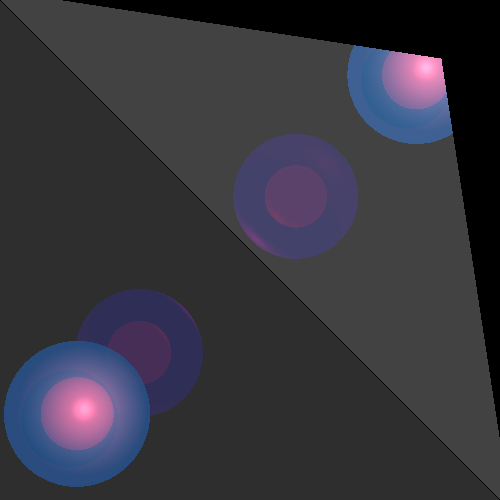
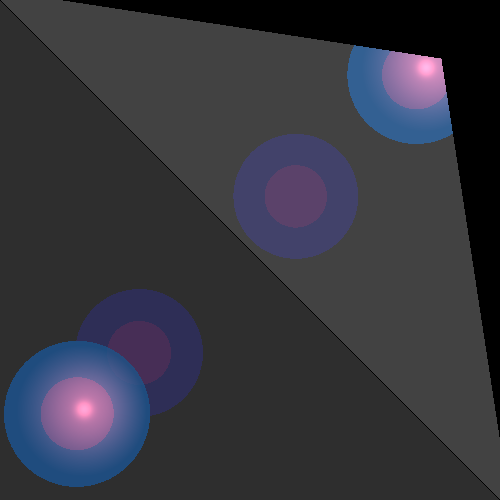
Add transparency calculation and improve local effects handling in ray tracing

diff --git a/src/renderer/SimpleRayTracer.java b/src/renderer/SimpleRayTracer.java
@@ -66,6 +66,32 @@ class SimpleRayTracer extends RayTracerBase {
     }
 
     /**
+     * Calculates the transparency factor (ktr) for the given intersection point, which represents how much light can pass through the geometries between the light source and the intersection point.
+     *
+     * @param intersection The intersection point for which to calculate the transparency factor.
+     * @return The transparency factor (ktr) for the given intersection point, which is a product of the transparency coefficients (kT) of all geometries that intersect with the shadow ray from the light source to the intersection point.
+     */
+    private Double3 transparency(Intersection intersection) {
+        Vector pointToLight = intersection.l.scale(-1);
+        Ray shadowRay = new Ray(intersection.point, pointToLight, intersection.normal);
+
+        var shadowIntersections = _scene.geometries.calcIntersections(shadowRay);
+        Double3 ktr = Double3.ONE;
+        if (shadowIntersections == null) return ktr;
+
+        double lightDistance = intersection.light.getDistance(intersection.point);
+        for (var shadowIntersection : shadowIntersections) {
+            if (alignZero(intersection.point.distance(shadowIntersection.point) - lightDistance) < 0 ) {
+                ktr = ktr.product(shadowIntersection.material.kT);
+                if (ktr.isLowerThan(MIN_CALC_COLOR_K)) {
+                    return Double3.ZERO;
+                }
+            }
+        }
+        return ktr;
+    }
+
+    /**
      * Calculates the color at the given intersection point.
      *
      * @param intersection The point of intersection for which to calculate the color.
@@ -75,8 +101,8 @@ class SimpleRayTracer extends RayTracerBase {
     private Color calcColor(Intersection intersection, Vector v) {
         return !preprocessIntersection(intersection, v) ? Color.BLACK
                 : _scene.ambientLight.getIntensity()
-                  .scale(intersection.material.kA)
-                  .add(calcColor(intersection, MAX_CALC_COLOR_LEVEL, INITIAL_K));
+                .scale(intersection.material.kA)
+                .add(calcColor(intersection, MAX_CALC_COLOR_LEVEL, INITIAL_K));
     }
 
     /**
@@ -88,25 +114,26 @@ class SimpleRayTracer extends RayTracerBase {
      * @return The color at the intersection point, which is a combination of local lighting effects and contributions from reflections and refractions.
      */
     private Color calcColor(Intersection intersection, int level, Double3 k) {
-        return calcLocalEffects(intersection)
+        return calcLocalEffects(intersection, k)
                 .add(calcGlobalEffects(intersection, level, k));
     }
 
     /**
-     * Calculates the local lighting effects at the given intersection point.
-     * This method iterates through all light sources in the scene and calculates the contribution of each light source to the color at the intersection point,
-     * taking into account the diffuse and specular components of the lighting.
+     * Calculates the local lighting effects (diffuse and specular) at the given intersection point, taking into account the color contribution (k) for optimization.
      *
-     * @param intersection The point of intersection for which to calculate the local lighting effects.
-     * @return The color contribution from all light sources at the intersection point, which is a combination of diffuse and specular components.
+     * @param intersection The point of intersection for which to calculate the local effects.
+     * @param k            The color contribution factor, which is used to optimize the ray tracing process by ignoring contributions that are too small to affect the final color significantly.
+     * @return The color contribution from local lighting effects at the intersection point, which is a combination of the material's emission and the contributions from diffuse and specular lighting based on the light sources in the scene.
      */
-    private Color calcLocalEffects(Intersection intersection) {
+    private Color calcLocalEffects(Intersection intersection, Double3 k) {
         Color color = intersection.geometry.getEmission();
         for (LightSource lightSource : _scene.lights) {
             if (preprocessLightSource(intersection, lightSource)) {
-                if (unshaded(intersection)) {
+                Double3 ktr = transparency(intersection);
+                if (ktr.product(k).isGreaterThan(MIN_CALC_COLOR_K)) {
                     color = color.add(
                             lightSource.getIntensity(intersection.point)
+                                    .scale(ktr)
                                     .scale(calcDiffuse(intersection)
                                             .add(calcSpecular(intersection))));
                 }
@@ -190,7 +217,7 @@ class SimpleRayTracer extends RayTracerBase {
         Vector tmp = intersection.normal.scale(2 * intersection.vNormal);
         Vector r = intersection.v
                 .subtract(tmp);
-        return new Ray(intersection.point, r,intersection.normal);
+        return new Ray(intersection.point, r, intersection.normal);
     }
 
     /**
@@ -200,7 +227,7 @@ class SimpleRayTracer extends RayTracerBase {
      * @return A new Ray object representing the transparency ray.
      */
     private Ray constructTransparencyRay(Intersection intersection) {
-        return new Ray(intersection.point, intersection.v,intersection.normal);
+        return new Ray(intersection.point, intersection.v, intersection.normal);
     }
 
     /**
@@ -223,7 +250,7 @@ class SimpleRayTracer extends RayTracerBase {
      *
      * @param ray The ray for which to find the closest intersection point with the geometries in the scene.
      * @return The closest Intersection object representing the intersection point of the ray with the geometries in the scene,
-     *  or null if there are no intersections.
+     * or null if there are no intersections.
      */
     private Intersection findClosestIntersection(Ray ray) {
         return ray.findClosestIntersection(_scene.geometries.calcIntersections(ray));

diff --git a/src/primitives/Double3.java b/src/primitives/Double3.java
@@ -117,6 +117,15 @@ public record Double3(double _d1, double _d2, double _d3) {
     }
 
     /**
+     * Checks whether all components are greater than a given value.
+     * @param  k the value to compare against
+     * @return   {@code true} if all components are greater than {@code k}
+     */
+    public boolean isGreaterThan(double k) {
+        return _d1 > k && _d2 > k && _d3 > k;
+    }
+
+    /**
      * Checks whether all components of this triad are smaller than the
      * corresponding components of another triad.
      * @param  other the triad to compare with
@@ -126,4 +135,6 @@ public record Double3(double _d1, double _d2, double _d3) {
     public boolean isLowerThan(Double3 other) {
         return _d1 < other._d1 && _d2 < other._d2 && _d3 < other._d3;
     }
+
+
 }
